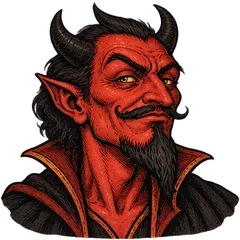
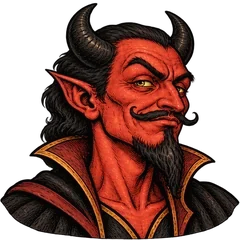
Retire the old single Old Nick portrait; the new three-view art is used everywhere

diff --git a/tools/cut-portraits.py b/tools/cut-portraits.py
@@ -78,3 +78,5 @@ for i, v in enumerate("lcr"):
     sq.paste(c, ((side - c.width) // 2, side - c.height))
     sq.resize((240, 240), Image.LANCZOS).save(f"img/opp-old-nick-{v}.webp", "WEBP", quality=86, method=6)
     print("old-nick", v, c.size)
+# the old single Old Nick from sheet 1 is retired: his plain portrait is the new looking-right view too
+Image.open("img/opp-old-nick-r.webp").save("img/opp-old-nick.webp", "WEBP", quality=86, method=6)
